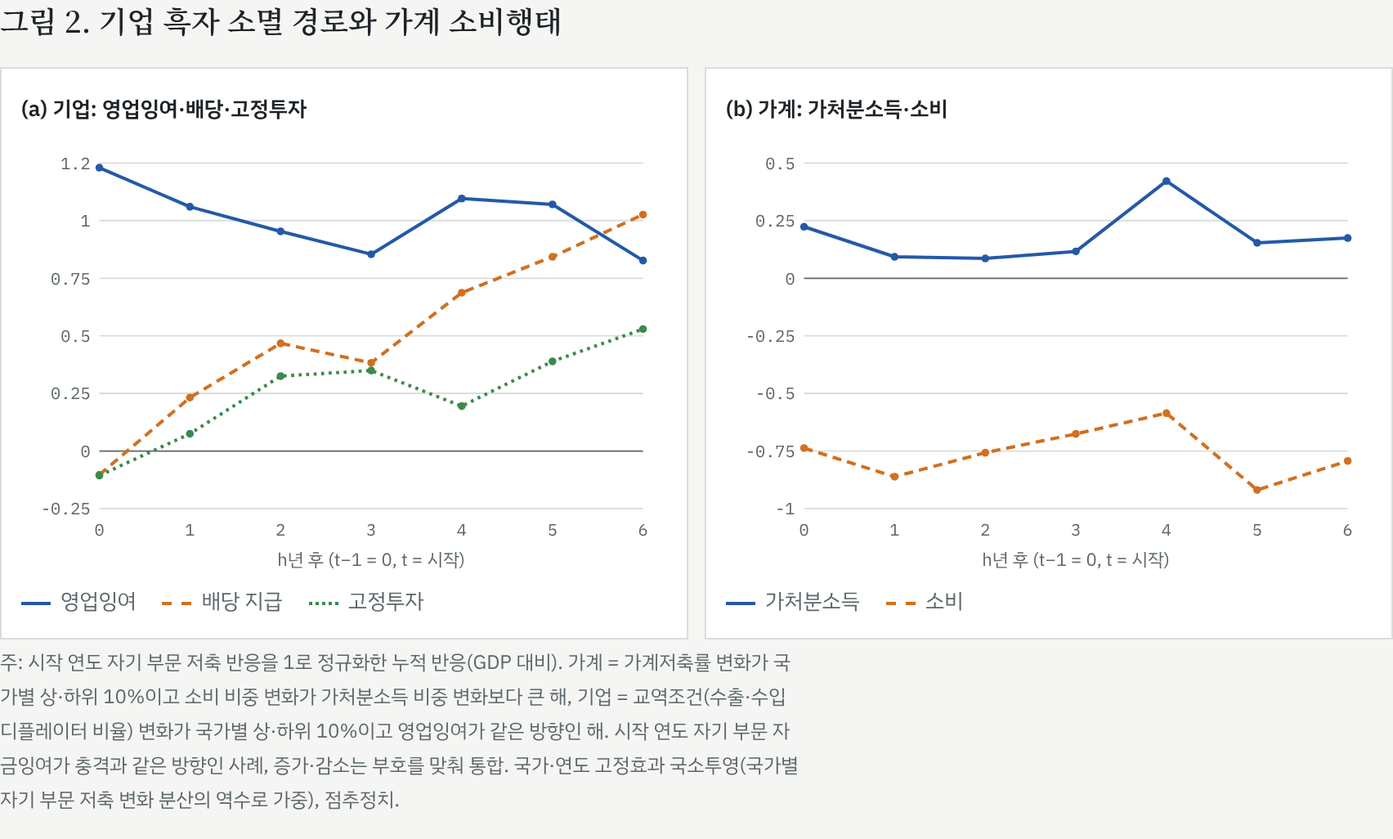
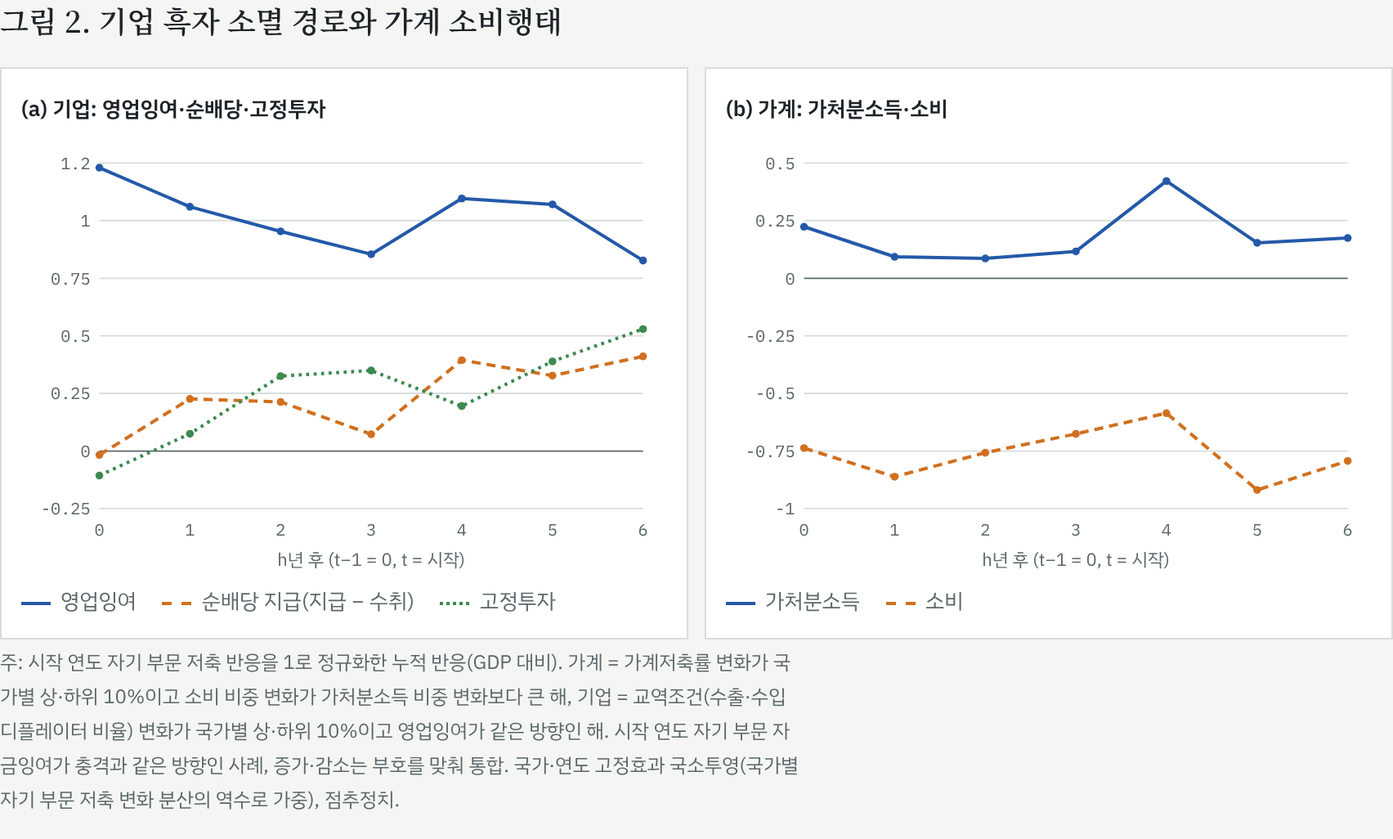
Update weighted report figures with net dividends
Claude-Session: https://claude.ai/code/session_01QSFGVrqZTZBvgbV4CUsjF6

diff --git a/research/sector_saving_ca/output/ep_report_wsv_figs.html b/research/sector_saving_ca/output/ep_report_wsv_figs.html
@@ -82,4 +82,4 @@ footer { font-size: 13px; color: var(--muted); border-top: 1px solid var(--rule)
 svg .line.s1{stroke:#2459a8;fill:none;stroke-width:2.2} svg .band.s1{fill:#2459a8;opacity:.14} svg .dot.s1{fill:#2459a8}
 svg .line.s2{stroke:#d1701f;fill:none;stroke-width:2.2;stroke-dasharray:6 4} svg .band.s2{fill:#d1701f;opacity:.14} svg .dot.s2{fill:#d1701f}
 svg .line.s3{stroke:#3b8a4f;fill:none;stroke-width:2.2;stroke-dasharray:2 3} svg .dot.s3{fill:#3b8a4f}
-.sw.s1{border-color:#2459a8} .sw.s2{border-color:#d1701f;border-top-style:dashed} .sw.s3{border-color:#3b8a4f;border-top-style:dotted}</style></head><body><main style="max-width:900px"><section id="F1"><h2 style="font-size:18px">그림 1. 원천별 저축·자금잉여의 지속성</h2><div style="display:grid;grid-template-columns:1fr 1fr;gap:10px"><figure><div class="panel-title">(a) 저축</div><svg viewBox="0 0 430 290" role="img" aria-label="(a) 저축"><line class="grid" x1="52" x2="414" y1="246.0" y2="246.0"/><text class="tick" x="46" y="250.0" text-anchor="end">-0.5</text><line class="zero" x1="52" x2="414" y1="188.5" y2="188.5"/><text class="tick" x="46" y="192.5" text-anchor="end">0</text><line class="grid" x1="52" x2="414" y1="131.0" y2="131.0"/><text class="tick" x="46" y="135.0" text-anchor="end">0.5</text><line class="grid" x1="52" x2="414" y1="73.5" y2="73.5"/><text class="tick" x="46" y="77.5" text-anchor="end">1</text><line class="grid" x1="52" x2="414" y1="16.0" y2="16.0"/><text class="tick" x="46" y="20.0" text-anchor="end">1.5</text><text class="tick" x="52.0" y="264" text-anchor="middle">0</text><text class="tick" x="112.3" y="264" text-anchor="middle">1</text><text class="tick" x="172.7" y="264" text-anchor="middle">2</text><text class="tick" x="233.0" y="264" text-anchor="middle">3</text><text class="tick" x="293.3" y="264" text-anchor="middle">4</text><text class="tick" x="353.7" y="264" text-anchor="middle">5</text><text class="tick" x="414.0" y="264" text-anchor="middle">6</text><text class="axis" x="233.0" y="284" text-anchor="middle">h년 후 (t−1 = 0, t = 시작)</text><polygon class="band s1" points="52.0,73.5 112.3,58.0 172.7,78.0 233.0,72.9 293.3,44.4 353.7,48.9 414.0,56.1 414.0,106.9 353.7,108.8 293.3,102.6 233.0,118.5 172.7,119.2 112.3,97.7 52.0,73.5"/><polygon class="band s2" points="52.0,73.5 112.3,72.9 172.7,97.2 233.0,97.0 293.3,102.1 353.7,86.6 414.0,101.1 414.0,198.4 353.7,169.5 293.3,163.5 233.0,165.1 172.7,142.9 112.3,115.6 52.0,73.5"/><polyline class="line s1" points="52.0,73.5 112.3,74.1 172.7,92.8 233.0,90.6 293.3,68.1 353.7,70.6 414.0,76.5"/><circle class="dot s1" cx="52.0" cy="73.5" r="2.6"/><circle class="dot s1" cx="112.3" cy="74.1" r="2.6"/><circle class="dot s1" cx="172.7" cy="92.8" r="2.6"/><circle class="dot s1" cx="233.0" cy="90.6" r="2.6"/><circle class="dot s1" cx="293.3" cy="68.1" r="2.6"/><circle class="dot s1" cx="353.7" cy="70.6" r="2.6"/><circle class="dot s1" cx="414.0" cy="76.5" r="2.6"/><polyline class="line s2" points="52.0,73.5 112.3,89.2 172.7,117.0 233.0,125.9 293.3,126.6 353.7,125.4 414.0,151.3"/><circle class="dot s2" cx="52.0" cy="73.5" r="2.6"/><circle class="dot s2" cx="112.3" cy="89.2" r="2.6"/><circle class="dot s2" cx="172.7" cy="117.0" r="2.6"/><circle class="dot s2" cx="233.0" cy="125.9" r="2.6"/><circle class="dot s2" cx="293.3" cy="126.6" r="2.6"/><circle class="dot s2" cx="353.7" cy="125.4" r="2.6"/><circle class="dot s2" cx="414.0" cy="151.3" r="2.6"/></svg><div class="legend"><span><i class="sw s1"></i>가계(소비행태 변화, 36건)</span><span><i class="sw s2"></i>기업(교역조건, 52건)</span></div></figure><figure><div class="panel-title">(b) 자금잉여(저축 − 투자)</div><svg viewBox="0 0 430 290" role="img" aria-label="(b) 자금잉여(저축 − 투자)"><line class="grid" x1="52" x2="414" y1="246.0" y2="246.0"/><text class="tick" x="46" y="250.0" text-anchor="end">-1</text><line class="grid" x1="52" x2="414" y1="207.7" y2="207.7"/><text class="tick" x="46" y="211.7" text-anchor="end">-0.5</text><line class="zero" x1="52" x2="414" y1="169.3" y2="169.3"/><text class="tick" x="46" y="173.3" text-anchor="end">0</text><line class="grid" x1="52" x2="414" y1="131.0" y2="131.0"/><text class="tick" x="46" y="135.0" text-anchor="end">0.5</text><line class="grid" x1="52" x2="414" y1="92.7" y2="92.7"/><text class="tick" x="46" y="96.7" text-anchor="end">1</text><line class="grid" x1="52" x2="414" y1="54.3" y2="54.3"/><text class="tick" x="46" y="58.3" text-anchor="end">1.5</text><line class="grid" x1="52" x2="414" y1="16.0" y2="16.0"/><text class="tick" x="46" y="20.0" text-anchor="end">2</text><text class="tick" x="52.0" y="264" text-anchor="middle">0</text><text class="tick" x="112.3" y="264" text-anchor="middle">1</text><text class="tick" x="172.7" y="264" text-anchor="middle">2</text><text class="tick" x="233.0" y="264" text-anchor="middle">3</text><text class="tick" x="293.3" y="264" text-anchor="middle">4</text><text class="tick" x="353.7" y="264" text-anchor="middle">5</text><text class="tick" x="414.0" y="264" text-anchor="middle">6</text><text class="axis" x="233.0" y="284" text-anchor="middle">h년 후 (t−1 = 0, t = 시작)</text><polygon class="band s1" points="52.0,85.7 112.3,78.6 172.7,103.5 233.0,98.4 293.3,92.4 353.7,82.0 414.0,85.4 414.0,132.1 353.7,121.0 293.3,136.2 233.0,139.0 172.7,132.2 112.3,105.6 52.0,96.8"/><polygon class="band s2" points="52.0,28.4 112.3,95.9 172.7,112.0 233.0,109.9 293.3,99.7 353.7,112.5 414.0,131.6 414.0,234.9 353.7,196.1 293.3,181.4 233.0,181.8 172.7,172.0 112.3,146.0 52.0,79.1"/><polyline class="line s1" points="52.0,91.7 112.3,90.5 172.7,114.7 233.0,115.0 293.3,111.9 353.7,100.0 414.0,106.2"/><circle class="dot s1" cx="52.0" cy="91.7" r="2.6"/><circle class="dot s1" cx="112.3" cy="90.5" r="2.6"/><circle class="dot s1" cx="172.7" cy="114.7" r="2.6"/><circle class="dot s1" cx="233.0" cy="115.0" r="2.6"/><circle class="dot s1" cx="293.3" cy="111.9" r="2.6"/><circle class="dot s1" cx="353.7" cy="100.0" r="2.6"/><circle class="dot s1" cx="414.0" cy="106.2" r="2.6"/><polyline class="line s2" points="52.0,58.8 112.3,122.7 172.7,143.5 233.0,147.4 293.3,142.3 353.7,154.7 414.0,188.0"/><circle class="dot s2" cx="52.0" cy="58.8" r="2.6"/><circle class="dot s2" cx="112.3" cy="122.7" r="2.6"/><circle class="dot s2" cx="172.7" cy="143.5" r="2.6"/><circle class="dot s2" cx="233.0" cy="147.4" r="2.6"/><circle class="dot s2" cx="293.3" cy="142.3" r="2.6"/><circle class="dot s2" cx="353.7" cy="154.7" r="2.6"/><circle class="dot s2" cx="414.0" cy="188.0" r="2.6"/></svg><div class="legend"><span><i class="sw s1"></i>가계(소비행태 변화, 36건)</span><span><i class="sw s2"></i>기업(교역조건, 52건)</span></div></figure></div><p class="ci" style="font-size:12px">주: 시작 연도 자기 부문 저축 반응을 1로 정규화한 누적 반응(GDP 대비). 가계 = 가계저축률 변화가 국가별 상·하위 10%이고 소비 비중 변화가 가처분소득 비중 변화보다 큰 해, 기업 = 교역조건(수출·수입 디플레이터 비율) 변화가 국가별 상·하위 10%이고 영업잉여가 같은 방향인 해. 시작 연도 자기 부문 자금잉여가 충격과 같은 방향인 사례, 증가·감소는 부호를 맞춰 통합. 국가·연도 고정효과 국소투영(국가별 자기 부문 저축 변화 분산의 역수로 가중), 음영은 68% 구간(국가 단위 부트스트랩 499회).</p></section><section id="F2"><h2 style="font-size:18px">그림 2. 기업 흑자 소멸 경로와 가계 소비행태</h2><div style="display:grid;grid-template-columns:1fr 1fr;gap:10px"><figure><div class="panel-title">(a) 기업: 영업잉여·배당·고정투자</div><svg viewBox="0 0 430 290" role="img" aria-label="(a) 기업: 영업잉여·배당·고정투자"><line class="grid" x1="52" x2="414" y1="246.0" y2="246.0"/><text class="tick" x="46" y="250.0" text-anchor="end">-0.25</text><line class="zero" x1="52" x2="414" y1="207.7" y2="207.7"/><text class="tick" x="46" y="211.7" text-anchor="end">0</text><line class="grid" x1="52" x2="414" y1="169.3" y2="169.3"/><text class="tick" x="46" y="173.3" text-anchor="end">0.25</text><line class="grid" x1="52" x2="414" y1="131.0" y2="131.0"/><text class="tick" x="46" y="135.0" text-anchor="end">0.5</text><line class="grid" x1="52" x2="414" y1="92.7" y2="92.7"/><text class="tick" x="46" y="96.7" text-anchor="end">0.75</text><line class="grid" x1="52" x2="414" y1="54.3" y2="54.3"/><text class="tick" x="46" y="58.3" text-anchor="end">1</text><line class="grid" x1="52" x2="414" y1="16.0" y2="16.0"/><text class="tick" x="46" y="20.0" text-anchor="end">1.2</text><text class="tick" x="52.0" y="264" text-anchor="middle">0</text><text class="tick" x="112.3" y="264" text-anchor="middle">1</text><text class="tick" x="172.7" y="264" text-anchor="middle">2</text><text class="tick" x="233.0" y="264" text-anchor="middle">3</text><text class="tick" x="293.3" y="264" text-anchor="middle">4</text><text class="tick" x="353.7" y="264" text-anchor="middle">5</text><text class="tick" x="414.0" y="264" text-anchor="middle">6</text><text class="axis" x="233.0" y="284" text-anchor="middle">h년 후 (t−1 = 0, t = 시작)</text><polyline class="line s1" points="52.0,19.1 112.3,45.1 172.7,61.5 233.0,76.7 293.3,39.6 353.7,43.5 414.0,80.9"/><circle class="dot s1" cx="52.0" cy="19.1" r="2.6"/><circle class="dot s1" cx="112.3" cy="45.1" r="2.6"/><circle class="dot s1" cx="172.7" cy="61.5" r="2.6"/><circle class="dot s1" cx="233.0" cy="76.7" r="2.6"/><circle class="dot s1" cx="293.3" cy="39.6" r="2.6"/><circle class="dot s1" cx="353.7" cy="43.5" r="2.6"/><circle class="dot s1" cx="414.0" cy="80.9" r="2.6"/><polyline class="line s2" points="52.0,223.5 112.3,172.1 172.7,136.0 233.0,149.0 293.3,102.3 353.7,78.4 414.0,50.3"/><circle class="dot s2" cx="52.0" cy="223.5" r="2.6"/><circle class="dot s2" cx="112.3" cy="172.1" r="2.6"/><circle class="dot s2" cx="172.7" cy="136.0" r="2.6"/><circle class="dot s2" cx="233.0" cy="149.0" r="2.6"/><circle class="dot s2" cx="293.3" cy="102.3" r="2.6"/><circle class="dot s2" cx="353.7" cy="78.4" r="2.6"/><circle class="dot s2" cx="414.0" cy="50.3" r="2.6"/><polyline class="line s3" points="52.0,224.0 112.3,196.2 172.7,157.8 233.0,154.1 293.3,177.8 353.7,148.0 414.0,126.5"/><circle class="dot s3" cx="52.0" cy="224.0" r="2.6"/><circle class="dot s3" cx="112.3" cy="196.2" r="2.6"/><circle class="dot s3" cx="172.7" cy="157.8" r="2.6"/><circle class="dot s3" cx="233.0" cy="154.1" r="2.6"/><circle class="dot s3" cx="293.3" cy="177.8" r="2.6"/><circle class="dot s3" cx="353.7" cy="148.0" r="2.6"/><circle class="dot s3" cx="414.0" cy="126.5" r="2.6"/></svg><div class="legend"><span><i class="sw s1"></i>영업잉여</span><span><i class="sw s2"></i>배당 지급</span><span><i class="sw s3"></i>고정투자</span></div></figure><figure><div class="panel-title">(b) 가계: 가처분소득·소비</div><svg viewBox="0 0 430 290" role="img" aria-label="(b) 가계: 가처분소득·소비"><line class="grid" x1="52" x2="414" y1="246.0" y2="246.0"/><text class="tick" x="46" y="250.0" text-anchor="end">-1</text><line class="grid" x1="52" x2="414" y1="207.7" y2="207.7"/><text class="tick" x="46" y="211.7" text-anchor="end">-0.75</text><line class="grid" x1="52" x2="414" y1="169.3" y2="169.3"/><text class="tick" x="46" y="173.3" text-anchor="end">-0.5</text><line class="grid" x1="52" x2="414" y1="131.0" y2="131.0"/><text class="tick" x="46" y="135.0" text-anchor="end">-0.25</text><line class="zero" x1="52" x2="414" y1="92.7" y2="92.7"/><text class="tick" x="46" y="96.7" text-anchor="end">0</text><line class="grid" x1="52" x2="414" y1="54.3" y2="54.3"/><text class="tick" x="46" y="58.3" text-anchor="end">0.25</text><line class="grid" x1="52" x2="414" y1="16.0" y2="16.0"/><text class="tick" x="46" y="20.0" text-anchor="end">0.5</text><text class="tick" x="52.0" y="264" text-anchor="middle">0</text><text class="tick" x="112.3" y="264" text-anchor="middle">1</text><text class="tick" x="172.7" y="264" text-anchor="middle">2</text><text class="tick" x="233.0" y="264" text-anchor="middle">3</text><text class="tick" x="293.3" y="264" text-anchor="middle">4</text><text class="tick" x="353.7" y="264" text-anchor="middle">5</text><text class="tick" x="414.0" y="264" text-anchor="middle">6</text><text class="axis" x="233.0" y="284" text-anchor="middle">h년 후 (t−1 = 0, t = 시작)</text><polyline class="line s1" points="52.0,58.4 112.3,78.4 172.7,79.5 233.0,74.8 293.3,28.0 353.7,69.1 414.0,65.9"/><circle class="dot s1" cx="52.0" cy="58.4" r="2.6"/><circle class="dot s1" cx="112.3" cy="78.4" r="2.6"/><circle class="dot s1" cx="172.7" cy="79.5" r="2.6"/><circle class="dot s1" cx="233.0" cy="74.8" r="2.6"/><circle class="dot s1" cx="293.3" cy="28.0" r="2.6"/><circle class="dot s1" cx="353.7" cy="69.1" r="2.6"/><circle class="dot s1" cx="414.0" cy="65.9" r="2.6"/><polyline class="line s2" points="52.0,205.7 112.3,224.8 172.7,208.8 233.0,196.3 293.3,182.5 353.7,233.6 414.0,214.3"/><circle class="dot s2" cx="52.0" cy="205.7" r="2.6"/><circle class="dot s2" cx="112.3" cy="224.8" r="2.6"/><circle class="dot s2" cx="172.7" cy="208.8" r="2.6"/><circle class="dot s2" cx="233.0" cy="196.3" r="2.6"/><circle class="dot s2" cx="293.3" cy="182.5" r="2.6"/><circle class="dot s2" cx="353.7" cy="233.6" r="2.6"/><circle class="dot s2" cx="414.0" cy="214.3" r="2.6"/></svg><div class="legend"><span><i class="sw s1"></i>가처분소득</span><span><i class="sw s2"></i>소비</span></div></figure></div><p class="ci" style="font-size:12px">주: 시작 연도 자기 부문 저축 반응을 1로 정규화한 누적 반응(GDP 대비). 가계 = 가계저축률 변화가 국가별 상·하위 10%이고 소비 비중 변화가 가처분소득 비중 변화보다 큰 해, 기업 = 교역조건(수출·수입 디플레이터 비율) 변화가 국가별 상·하위 10%이고 영업잉여가 같은 방향인 해. 시작 연도 자기 부문 자금잉여가 충격과 같은 방향인 사례, 증가·감소는 부호를 맞춰 통합. 국가·연도 고정효과 국소투영(국가별 자기 부문 저축 변화 분산의 역수로 가중), 점추정치.</p></section></main></body></html>
+.sw.s1{border-color:#2459a8} .sw.s2{border-color:#d1701f;border-top-style:dashed} .sw.s3{border-color:#3b8a4f;border-top-style:dotted}</style></head><body><main style="max-width:900px"><section id="F1"><h2 style="font-size:18px">그림 1. 원천별 저축·자금잉여의 지속성</h2><div style="display:grid;grid-template-columns:1fr 1fr;gap:10px"><figure><div class="panel-title">(a) 저축</div><svg viewBox="0 0 430 290" role="img" aria-label="(a) 저축"><line class="grid" x1="52" x2="414" y1="246.0" y2="246.0"/><text class="tick" x="46" y="250.0" text-anchor="end">-0.5</text><line class="zero" x1="52" x2="414" y1="188.5" y2="188.5"/><text class="tick" x="46" y="192.5" text-anchor="end">0</text><line class="grid" x1="52" x2="414" y1="131.0" y2="131.0"/><text class="tick" x="46" y="135.0" text-anchor="end">0.5</text><line class="grid" x1="52" x2="414" y1="73.5" y2="73.5"/><text class="tick" x="46" y="77.5" text-anchor="end">1</text><line class="grid" x1="52" x2="414" y1="16.0" y2="16.0"/><text class="tick" x="46" y="20.0" text-anchor="end">1.5</text><text class="tick" x="52.0" y="264" text-anchor="middle">0</text><text class="tick" x="112.3" y="264" text-anchor="middle">1</text><text class="tick" x="172.7" y="264" text-anchor="middle">2</text><text class="tick" x="233.0" y="264" text-anchor="middle">3</text><text class="tick" x="293.3" y="264" text-anchor="middle">4</text><text class="tick" x="353.7" y="264" text-anchor="middle">5</text><text class="tick" x="414.0" y="264" text-anchor="middle">6</text><text class="axis" x="233.0" y="284" text-anchor="middle">h년 후 (t−1 = 0, t = 시작)</text><polygon class="band s1" points="52.0,73.5 112.3,58.0 172.7,78.0 233.0,72.9 293.3,44.4 353.7,48.9 414.0,56.1 414.0,106.9 353.7,108.8 293.3,102.6 233.0,118.5 172.7,119.2 112.3,97.7 52.0,73.5"/><polygon class="band s2" points="52.0,73.5 112.3,72.9 172.7,97.2 233.0,97.0 293.3,102.1 353.7,86.6 414.0,101.1 414.0,198.4 353.7,169.5 293.3,163.5 233.0,165.1 172.7,142.9 112.3,115.6 52.0,73.5"/><polyline class="line s1" points="52.0,73.5 112.3,74.1 172.7,92.8 233.0,90.6 293.3,68.1 353.7,70.6 414.0,76.5"/><circle class="dot s1" cx="52.0" cy="73.5" r="2.6"/><circle class="dot s1" cx="112.3" cy="74.1" r="2.6"/><circle class="dot s1" cx="172.7" cy="92.8" r="2.6"/><circle class="dot s1" cx="233.0" cy="90.6" r="2.6"/><circle class="dot s1" cx="293.3" cy="68.1" r="2.6"/><circle class="dot s1" cx="353.7" cy="70.6" r="2.6"/><circle class="dot s1" cx="414.0" cy="76.5" r="2.6"/><polyline class="line s2" points="52.0,73.5 112.3,89.2 172.7,117.0 233.0,125.9 293.3,126.6 353.7,125.4 414.0,151.3"/><circle class="dot s2" cx="52.0" cy="73.5" r="2.6"/><circle class="dot s2" cx="112.3" cy="89.2" r="2.6"/><circle class="dot s2" cx="172.7" cy="117.0" r="2.6"/><circle class="dot s2" cx="233.0" cy="125.9" r="2.6"/><circle class="dot s2" cx="293.3" cy="126.6" r="2.6"/><circle class="dot s2" cx="353.7" cy="125.4" r="2.6"/><circle class="dot s2" cx="414.0" cy="151.3" r="2.6"/></svg><div class="legend"><span><i class="sw s1"></i>가계(소비행태 변화, 36건)</span><span><i class="sw s2"></i>기업(교역조건, 52건)</span></div></figure><figure><div class="panel-title">(b) 자금잉여(저축 − 투자)</div><svg viewBox="0 0 430 290" role="img" aria-label="(b) 자금잉여(저축 − 투자)"><line class="grid" x1="52" x2="414" y1="246.0" y2="246.0"/><text class="tick" x="46" y="250.0" text-anchor="end">-1</text><line class="grid" x1="52" x2="414" y1="207.7" y2="207.7"/><text class="tick" x="46" y="211.7" text-anchor="end">-0.5</text><line class="zero" x1="52" x2="414" y1="169.3" y2="169.3"/><text class="tick" x="46" y="173.3" text-anchor="end">0</text><line class="grid" x1="52" x2="414" y1="131.0" y2="131.0"/><text class="tick" x="46" y="135.0" text-anchor="end">0.5</text><line class="grid" x1="52" x2="414" y1="92.7" y2="92.7"/><text class="tick" x="46" y="96.7" text-anchor="end">1</text><line class="grid" x1="52" x2="414" y1="54.3" y2="54.3"/><text class="tick" x="46" y="58.3" text-anchor="end">1.5</text><line class="grid" x1="52" x2="414" y1="16.0" y2="16.0"/><text class="tick" x="46" y="20.0" text-anchor="end">2</text><text class="tick" x="52.0" y="264" text-anchor="middle">0</text><text class="tick" x="112.3" y="264" text-anchor="middle">1</text><text class="tick" x="172.7" y="264" text-anchor="middle">2</text><text class="tick" x="233.0" y="264" text-anchor="middle">3</text><text class="tick" x="293.3" y="264" text-anchor="middle">4</text><text class="tick" x="353.7" y="264" text-anchor="middle">5</text><text class="tick" x="414.0" y="264" text-anchor="middle">6</text><text class="axis" x="233.0" y="284" text-anchor="middle">h년 후 (t−1 = 0, t = 시작)</text><polygon class="band s1" points="52.0,85.7 112.3,78.6 172.7,103.5 233.0,98.4 293.3,92.4 353.7,82.0 414.0,85.4 414.0,132.1 353.7,121.0 293.3,136.2 233.0,139.0 172.7,132.2 112.3,105.6 52.0,96.8"/><polygon class="band s2" points="52.0,28.4 112.3,95.9 172.7,112.0 233.0,109.9 293.3,99.7 353.7,112.5 414.0,131.6 414.0,234.9 353.7,196.1 293.3,181.4 233.0,181.8 172.7,172.0 112.3,146.0 52.0,79.1"/><polyline class="line s1" points="52.0,91.7 112.3,90.5 172.7,114.7 233.0,115.0 293.3,111.9 353.7,100.0 414.0,106.2"/><circle class="dot s1" cx="52.0" cy="91.7" r="2.6"/><circle class="dot s1" cx="112.3" cy="90.5" r="2.6"/><circle class="dot s1" cx="172.7" cy="114.7" r="2.6"/><circle class="dot s1" cx="233.0" cy="115.0" r="2.6"/><circle class="dot s1" cx="293.3" cy="111.9" r="2.6"/><circle class="dot s1" cx="353.7" cy="100.0" r="2.6"/><circle class="dot s1" cx="414.0" cy="106.2" r="2.6"/><polyline class="line s2" points="52.0,58.8 112.3,122.7 172.7,143.5 233.0,147.4 293.3,142.3 353.7,154.7 414.0,188.0"/><circle class="dot s2" cx="52.0" cy="58.8" r="2.6"/><circle class="dot s2" cx="112.3" cy="122.7" r="2.6"/><circle class="dot s2" cx="172.7" cy="143.5" r="2.6"/><circle class="dot s2" cx="233.0" cy="147.4" r="2.6"/><circle class="dot s2" cx="293.3" cy="142.3" r="2.6"/><circle class="dot s2" cx="353.7" cy="154.7" r="2.6"/><circle class="dot s2" cx="414.0" cy="188.0" r="2.6"/></svg><div class="legend"><span><i class="sw s1"></i>가계(소비행태 변화, 36건)</span><span><i class="sw s2"></i>기업(교역조건, 52건)</span></div></figure></div><p class="ci" style="font-size:12px">주: 시작 연도 자기 부문 저축 반응을 1로 정규화한 누적 반응(GDP 대비). 가계 = 가계저축률 변화가 국가별 상·하위 10%이고 소비 비중 변화가 가처분소득 비중 변화보다 큰 해, 기업 = 교역조건(수출·수입 디플레이터 비율) 변화가 국가별 상·하위 10%이고 영업잉여가 같은 방향인 해. 시작 연도 자기 부문 자금잉여가 충격과 같은 방향인 사례, 증가·감소는 부호를 맞춰 통합. 국가·연도 고정효과 국소투영(국가별 자기 부문 저축 변화 분산의 역수로 가중), 음영은 68% 구간(국가 단위 부트스트랩 499회).</p></section><section id="F2"><h2 style="font-size:18px">그림 2. 기업 흑자 소멸 경로와 가계 소비행태</h2><div style="display:grid;grid-template-columns:1fr 1fr;gap:10px"><figure><div class="panel-title">(a) 기업: 영업잉여·순배당·고정투자</div><svg viewBox="0 0 430 290" role="img" aria-label="(a) 기업: 영업잉여·순배당·고정투자"><line class="grid" x1="52" x2="414" y1="246.0" y2="246.0"/><text class="tick" x="46" y="250.0" text-anchor="end">-0.25</text><line class="zero" x1="52" x2="414" y1="207.7" y2="207.7"/><text class="tick" x="46" y="211.7" text-anchor="end">0</text><line class="grid" x1="52" x2="414" y1="169.3" y2="169.3"/><text class="tick" x="46" y="173.3" text-anchor="end">0.25</text><line class="grid" x1="52" x2="414" y1="131.0" y2="131.0"/><text class="tick" x="46" y="135.0" text-anchor="end">0.5</text><line class="grid" x1="52" x2="414" y1="92.7" y2="92.7"/><text class="tick" x="46" y="96.7" text-anchor="end">0.75</text><line class="grid" x1="52" x2="414" y1="54.3" y2="54.3"/><text class="tick" x="46" y="58.3" text-anchor="end">1</text><line class="grid" x1="52" x2="414" y1="16.0" y2="16.0"/><text class="tick" x="46" y="20.0" text-anchor="end">1.2</text><text class="tick" x="52.0" y="264" text-anchor="middle">0</text><text class="tick" x="112.3" y="264" text-anchor="middle">1</text><text class="tick" x="172.7" y="264" text-anchor="middle">2</text><text class="tick" x="233.0" y="264" text-anchor="middle">3</text><text class="tick" x="293.3" y="264" text-anchor="middle">4</text><text class="tick" x="353.7" y="264" text-anchor="middle">5</text><text class="tick" x="414.0" y="264" text-anchor="middle">6</text><text class="axis" x="233.0" y="284" text-anchor="middle">h년 후 (t−1 = 0, t = 시작)</text><polyline class="line s1" points="52.0,19.1 112.3,45.1 172.7,61.5 233.0,76.7 293.3,39.6 353.7,43.5 414.0,80.9"/><circle class="dot s1" cx="52.0" cy="19.1" r="2.6"/><circle class="dot s1" cx="112.3" cy="45.1" r="2.6"/><circle class="dot s1" cx="172.7" cy="61.5" r="2.6"/><circle class="dot s1" cx="233.0" cy="76.7" r="2.6"/><circle class="dot s1" cx="293.3" cy="39.6" r="2.6"/><circle class="dot s1" cx="353.7" cy="43.5" r="2.6"/><circle class="dot s1" cx="414.0" cy="80.9" r="2.6"/><polyline class="line s2" points="52.0,210.3 112.3,173.0 172.7,175.0 233.0,196.5 293.3,147.2 353.7,157.5 414.0,144.7"/><circle class="dot s2" cx="52.0" cy="210.3" r="2.6"/><circle class="dot s2" cx="112.3" cy="173.0" r="2.6"/><circle class="dot s2" cx="172.7" cy="175.0" r="2.6"/><circle class="dot s2" cx="233.0" cy="196.5" r="2.6"/><circle class="dot s2" cx="293.3" cy="147.2" r="2.6"/><circle class="dot s2" cx="353.7" cy="157.5" r="2.6"/><circle class="dot s2" cx="414.0" cy="144.7" r="2.6"/><polyline class="line s3" points="52.0,224.0 112.3,196.2 172.7,157.8 233.0,154.1 293.3,177.8 353.7,148.0 414.0,126.5"/><circle class="dot s3" cx="52.0" cy="224.0" r="2.6"/><circle class="dot s3" cx="112.3" cy="196.2" r="2.6"/><circle class="dot s3" cx="172.7" cy="157.8" r="2.6"/><circle class="dot s3" cx="233.0" cy="154.1" r="2.6"/><circle class="dot s3" cx="293.3" cy="177.8" r="2.6"/><circle class="dot s3" cx="353.7" cy="148.0" r="2.6"/><circle class="dot s3" cx="414.0" cy="126.5" r="2.6"/></svg><div class="legend"><span><i class="sw s1"></i>영업잉여</span><span><i class="sw s2"></i>순배당 지급(지급 − 수취)</span><span><i class="sw s3"></i>고정투자</span></div></figure><figure><div class="panel-title">(b) 가계: 가처분소득·소비</div><svg viewBox="0 0 430 290" role="img" aria-label="(b) 가계: 가처분소득·소비"><line class="grid" x1="52" x2="414" y1="246.0" y2="246.0"/><text class="tick" x="46" y="250.0" text-anchor="end">-1</text><line class="grid" x1="52" x2="414" y1="207.7" y2="207.7"/><text class="tick" x="46" y="211.7" text-anchor="end">-0.75</text><line class="grid" x1="52" x2="414" y1="169.3" y2="169.3"/><text class="tick" x="46" y="173.3" text-anchor="end">-0.5</text><line class="grid" x1="52" x2="414" y1="131.0" y2="131.0"/><text class="tick" x="46" y="135.0" text-anchor="end">-0.25</text><line class="zero" x1="52" x2="414" y1="92.7" y2="92.7"/><text class="tick" x="46" y="96.7" text-anchor="end">0</text><line class="grid" x1="52" x2="414" y1="54.3" y2="54.3"/><text class="tick" x="46" y="58.3" text-anchor="end">0.25</text><line class="grid" x1="52" x2="414" y1="16.0" y2="16.0"/><text class="tick" x="46" y="20.0" text-anchor="end">0.5</text><text class="tick" x="52.0" y="264" text-anchor="middle">0</text><text class="tick" x="112.3" y="264" text-anchor="middle">1</text><text class="tick" x="172.7" y="264" text-anchor="middle">2</text><text class="tick" x="233.0" y="264" text-anchor="middle">3</text><text class="tick" x="293.3" y="264" text-anchor="middle">4</text><text class="tick" x="353.7" y="264" text-anchor="middle">5</text><text class="tick" x="414.0" y="264" text-anchor="middle">6</text><text class="axis" x="233.0" y="284" text-anchor="middle">h년 후 (t−1 = 0, t = 시작)</text><polyline class="line s1" points="52.0,58.4 112.3,78.4 172.7,79.5 233.0,74.8 293.3,28.0 353.7,69.1 414.0,65.9"/><circle class="dot s1" cx="52.0" cy="58.4" r="2.6"/><circle class="dot s1" cx="112.3" cy="78.4" r="2.6"/><circle class="dot s1" cx="172.7" cy="79.5" r="2.6"/><circle class="dot s1" cx="233.0" cy="74.8" r="2.6"/><circle class="dot s1" cx="293.3" cy="28.0" r="2.6"/><circle class="dot s1" cx="353.7" cy="69.1" r="2.6"/><circle class="dot s1" cx="414.0" cy="65.9" r="2.6"/><polyline class="line s2" points="52.0,205.7 112.3,224.8 172.7,208.8 233.0,196.3 293.3,182.5 353.7,233.6 414.0,214.3"/><circle class="dot s2" cx="52.0" cy="205.7" r="2.6"/><circle class="dot s2" cx="112.3" cy="224.8" r="2.6"/><circle class="dot s2" cx="172.7" cy="208.8" r="2.6"/><circle class="dot s2" cx="233.0" cy="196.3" r="2.6"/><circle class="dot s2" cx="293.3" cy="182.5" r="2.6"/><circle class="dot s2" cx="353.7" cy="233.6" r="2.6"/><circle class="dot s2" cx="414.0" cy="214.3" r="2.6"/></svg><div class="legend"><span><i class="sw s1"></i>가처분소득</span><span><i class="sw s2"></i>소비</span></div></figure></div><p class="ci" style="font-size:12px">주: 시작 연도 자기 부문 저축 반응을 1로 정규화한 누적 반응(GDP 대비). 가계 = 가계저축률 변화가 국가별 상·하위 10%이고 소비 비중 변화가 가처분소득 비중 변화보다 큰 해, 기업 = 교역조건(수출·수입 디플레이터 비율) 변화가 국가별 상·하위 10%이고 영업잉여가 같은 방향인 해. 시작 연도 자기 부문 자금잉여가 충격과 같은 방향인 사례, 증가·감소는 부호를 맞춰 통합. 국가·연도 고정효과 국소투영(국가별 자기 부문 저축 변화 분산의 역수로 가중), 점추정치.</p></section></main></body></html>
